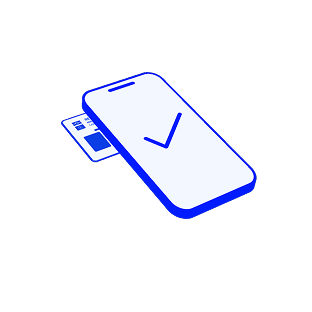
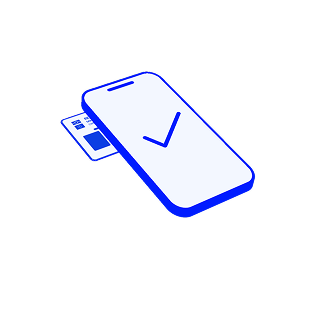
feat: replace ItwAnimatedImage with GifImage component in NFC and PIN preparation screens; add new static images for identification (all formats)

diff --git a/apps/main-app/ts/components/GifImage.tsx b/apps/main-app/ts/components/GifImage.tsx
@@ -1,24 +1,98 @@
-import { Image, ImageProps, ImageSourcePropType } from "react-native";
+import { IconButtonSolid, VSpacer } from "@io-app/design-system";
+import {
+  Image,
+  ImageProps,
+  ImageSourcePropType,
+  StyleSheet,
+  View
+} from "react-native";
+import { useReducedMotion } from "react-native-reanimated";
+
+import { useAnimationPlayback } from "../hooks/useAnimationPlayback";
+
+const DEFAULT_MAX_DURATION_MS = 8000;
 
 export type GifImageProps = Omit<ImageProps, "source"> & {
-  isPlaying?: boolean;
+  /** Starts playback when the component mounts. Defaults to `true`. */
+  autoPlay?: boolean;
+  /** Stops playback after this duration. Defaults to eight seconds. */
+  maxDurationMs?: number;
+  /** Accessible name announced while the animation is playing. */
+  pauseAccessibilityLabel: string;
+  /** Accessible name announced while the animation is paused. */
+  playAccessibilityLabel: string;
   /** Animated GIF displayed during playback. */
   source: ImageSourcePropType;
-  /** Still frame displayed while playback is paused, when available. */
-  staticSource?: ImageSourcePropType;
+  /** Still frame displayed when playback stops or reduced motion is enabled. */
+  staticSource: ImageSourcePropType;
 };
 
-/** Displays a GIF or its optional externally controlled static state. */
+/**
+ * Renders a GIF with accessible play and stop controls.
+ *
+ * Playback stops after `maxDurationMs`. Reduced motion keeps the static image
+ * visible and disables playback. Native image props are forwarded to the GIF.
+ */
 export const GifImage = ({
   accessibilityIgnoresInvertColors = false,
-  isPlaying = true,
+  autoPlay = true,
+  maxDurationMs = DEFAULT_MAX_DURATION_MS,
+  pauseAccessibilityLabel,
+  playAccessibilityLabel,
   source,
   staticSource,
+  style,
   ...imageProps
-}: GifImageProps) => (
-  <Image
-    {...imageProps}
-    accessibilityIgnoresInvertColors={accessibilityIgnoresInvertColors}
-    source={!isPlaying && staticSource ? staticSource : source}
-  />
-);
+}: GifImageProps) => {
+  const reduceMotion = useReducedMotion();
+  const { imageKey, isPlaying, togglePlayback } = useAnimationPlayback({
+    autoPlay,
+    maxDurationMs,
+    reduceMotion
+  });
+
+  return (
+    <View style={styles.container}>
+      <View style={styles.imageWrapper}>
+        <Image
+          {...imageProps}
+          accessibilityIgnoresInvertColors={accessibilityIgnoresInvertColors}
+          key={imageKey}
+          source={isPlaying ? source : staticSource}
+          style={[styles.image, style]}
+        />
+      </View>
+      <VSpacer size={16} />
+      <View style={styles.buttonContainer}>
+        <IconButtonSolid
+          accessibilityLabel={
+            isPlaying ? pauseAccessibilityLabel : playAccessibilityLabel
+          }
+          color="primary"
+          disabled={reduceMotion}
+          icon={isPlaying ? "stop" : "play"}
+          onPress={togglePlayback}
+        />
+      </View>
+    </View>
+  );
+};
+
+const styles = StyleSheet.create({
+  buttonContainer: {
+    flexDirection: "row",
+    justifyContent: "flex-end",
+    width: "100%"
+  },
+  container: {
+    flex: 1
+  },
+  image: {
+    height: "100%",
+    width: "100%"
+  },
+  imageWrapper: {
+    flex: 1,
+    width: "100%"
+  }
+});

diff --git a/apps/main-app/ts/components/__tests__/GifImage.test.tsx b/apps/main-app/ts/components/__tests__/GifImage.test.tsx
@@ -1,4 +1,4 @@
-import { render } from "@testing-library/react-native";
+import { fireEvent, render } from "@testing-library/react-native";
 import { Image } from "react-native";
 
 import { GifImage } from "../GifImage";
@@ -7,38 +7,38 @@ const animatedSource = { uri: "animation.gif" };
 const staticSource = { uri: "animation.png" };
 
 describe("GifImage", () => {
-  test.each([
-    {
-      expected: animatedSource,
-      isPlaying: true,
-      name: "animated source while playing",
-      staticSource
-    },
-    {
-      expected: staticSource,
-      isPlaying: false,
-      name: "static source while paused",
-      staticSource
-    },
-    {
-      expected: animatedSource,
-      isPlaying: false,
-      name: "animated source when a static source is unavailable",
-      staticSource: undefined
-    }
-  ])("displays the $name", ({ expected, isPlaying, staticSource: still }) => {
-    const { UNSAFE_getByType } = render(
+  it("plays the GIF and forwards native image props", () => {
+    const { UNSAFE_getByType, getByLabelText } = render(
       <GifImage
         accessibilityLabel="Tutorial animation"
-        isPlaying={isPlaying}
+        pauseAccessibilityLabel="Stop animation"
+        playAccessibilityLabel="Play animation"
         source={animatedSource}
-        staticSource={still}
+        staticSource={staticSource}
       />
     );
 
     expect(UNSAFE_getByType(Image).props).toMatchObject({
       accessibilityLabel: "Tutorial animation",
-      source: expected
+      source: animatedSource
     });
+    expect(getByLabelText("Stop animation")).toBeTruthy();
+  });
+
+  it("shows the static image while paused and resumes playback", () => {
+    const { UNSAFE_getByType, getByLabelText } = render(
+      <GifImage
+        pauseAccessibilityLabel="Stop animation"
+        playAccessibilityLabel="Play animation"
+        source={animatedSource}
+        staticSource={staticSource}
+      />
+    );
+
+    fireEvent.press(getByLabelText("Stop animation"));
+    expect(UNSAFE_getByType(Image).props.source).toEqual(staticSource);
+
+    fireEvent.press(getByLabelText("Play animation"));
+    expect(UNSAFE_getByType(Image).props.source).toEqual(animatedSource);
   });
 });

diff --git a/apps/main-app/ts/features/itwallet/identification/cie/screens/ItwCiePreparationPinScreen.tsx b/apps/main-app/ts/features/itwallet/identification/cie/screens/ItwCiePreparationPinScreen.tsx
@@ -3,7 +3,7 @@ import { useFocusEffect } from "@react-navigation/native";
 import I18n from "i18next";
 import { useCallback } from "react";
 
-import { ItwAnimatedImage } from "../../../common/components/ItwAnimatedImage";
+import { GifImage } from "../../../../../components/GifImage";
 import { ItwEidIssuanceMachineContext } from "../../../machine/eid/provider";
 import { isL3FeaturesEnabledSelector } from "../../../machine/eid/selectors";
 import { trackItwCiePinTutorialPin } from "../../analytics";
@@ -41,7 +41,7 @@ export const ItwCiePreparationPinScreen = () => {
         `features.itWallet.identification.cie.prepare.pin.description`
       )}
       imageComponent={
-        <ItwAnimatedImage
+        <GifImage
           accessibilityIgnoresInvertColors
           pauseAccessibilityLabel={I18n.t(
             "features.itWallet.identification.cie.prepare.animation.pause"

diff --git a/apps/main-app/ts/features/itwallet/identification/cie/screens/ItwCiePreparationNfcScreen.tsx b/apps/main-app/ts/features/itwallet/identification/cie/screens/ItwCiePreparationNfcScreen.tsx
@@ -2,7 +2,7 @@ import { useFocusEffect } from "@react-navigation/native";
 import I18n from "i18next";
 import { useCallback } from "react";
 
-import { ItwAnimatedImage } from "../../../common/components/ItwAnimatedImage";
+import { GifImage } from "../../../../../components/GifImage";
 import { ItwEidIssuanceMachineContext } from "../../../machine/eid/provider";
 import {
   isL3FeaturesEnabledSelector,
@@ -49,7 +49,7 @@ export const ItwCiePreparationNfcScreen = () => {
         `features.itWallet.identification.cie.prepare.nfc.description`
       )}
       imageComponent={
-        <ItwAnimatedImage
+        <GifImage
           accessibilityIgnoresInvertColors
           pauseAccessibilityLabel={I18n.t(
             "features.itWallet.identification.cie.prepare.animation.pause"
